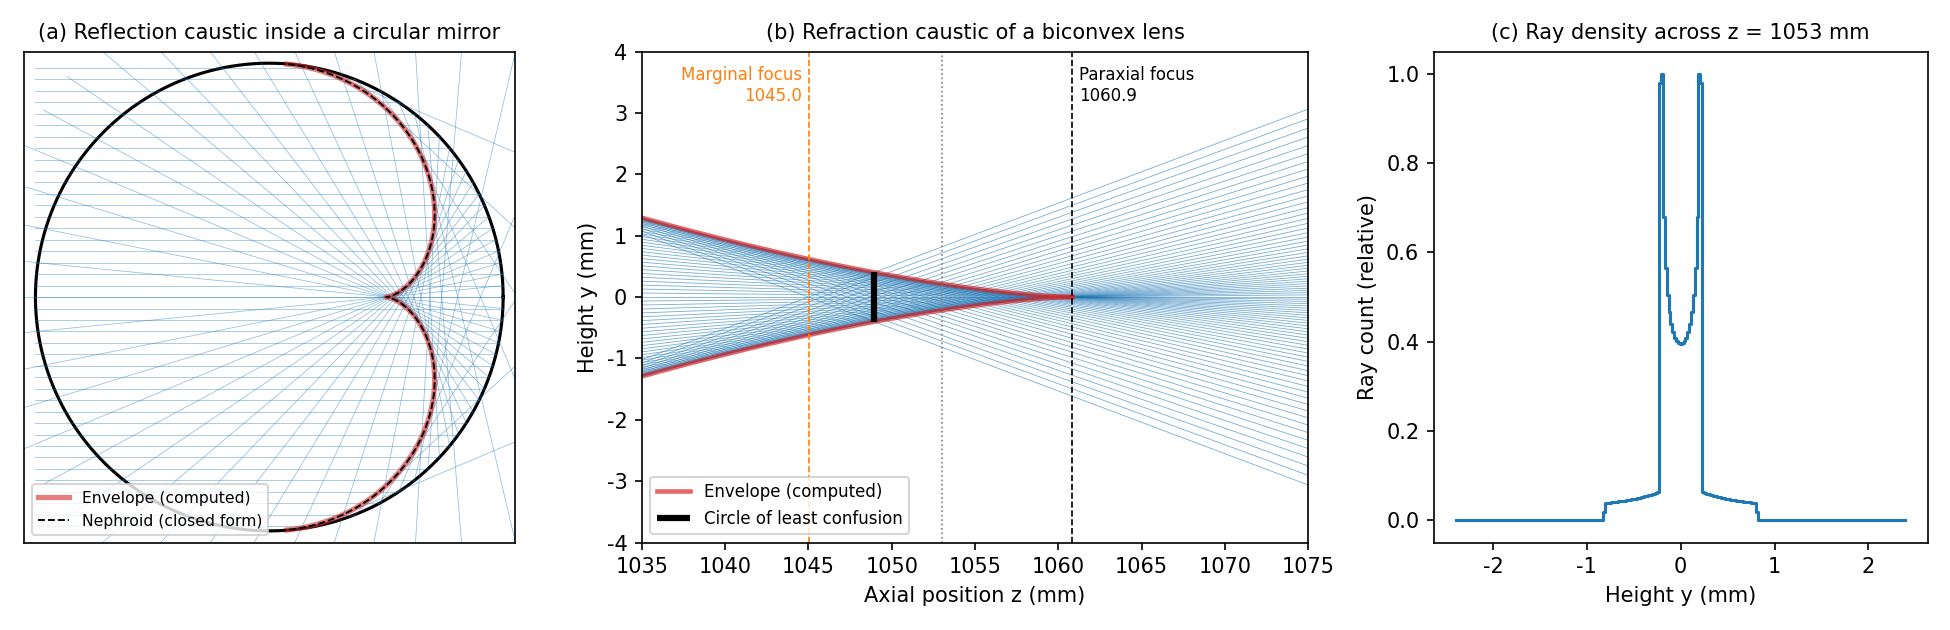
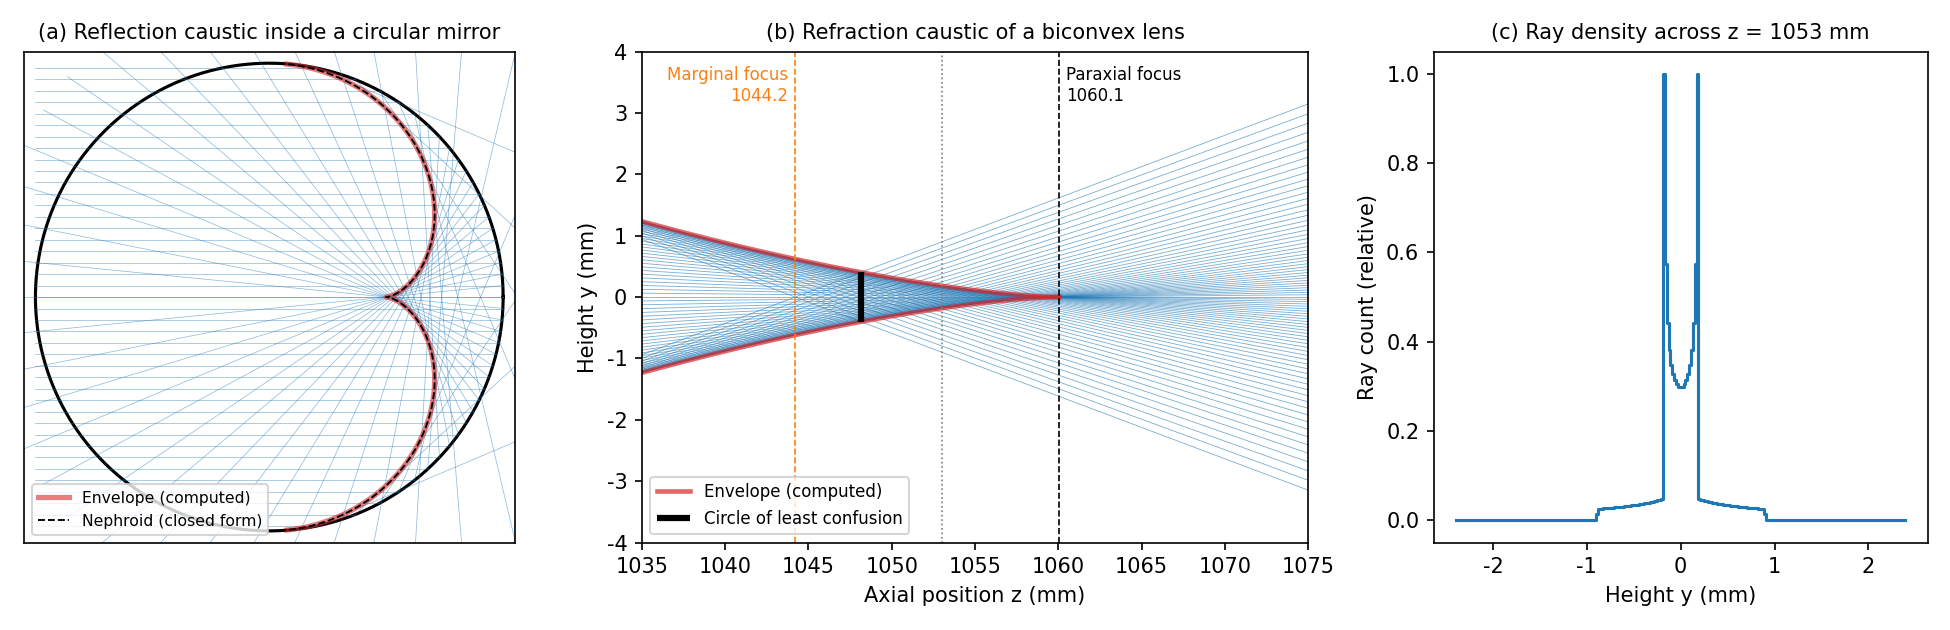
fix(post): geometric-optics-fermat-eikonal — 렌즈 모델의 공기 굴절률을 1로(카탈로그 규약)
N-BK7 굴절률(Sellmeier 1.511836)은 카탈로그 값, 곧 공기에 대한 상대 굴절률인데 공기를 1.0002778
(15 °C 건조 공기 약 552 nm 값)로 따로 두어 기준이 섞여 있었다. 사용자 결정에 따라 공기를 1로 두고 다시 계산했다.

- 근축 초점 1060.85 → 1060.05 mm, 가장자리 광선 1045.01 → 1044.21 mm
- 최소 착란원 위치 1048.95 → 1048.15 mm (지름 0.81 mm, 종구면수차 15.8 mm 그대로)
- 그림8 캡션·라벨 1045.0/1060.9 → 1044.2/1060.1, 그림8 한·영 재생성
- 렌즈를 처음 설명하는 자리에 "공기는 1로 둔다"는 근거 문장 추가(한·영)
- rays.py n_air 기본값 1.0, verify_rays 의 opticore 공기 1.0, Optiland 기록값을 공기 n=1 로 다시 구한 값으로 교체.
  verify 21 갈래 통과. 공기를 1로 두면 이 추적기·opticore·Optiland 가 서로 5e-4 이내로 맞는다.
- 신기루 계산(공기 n−1 ≈ 2.8e-4)은 렌즈 모델이 아니므로 그대로

diff --git a/_code/geometric-optics-fermat-eikonal/verify_rays.py b/_code/geometric-optics-fermat-eikonal/verify_rays.py
@@ -187,7 +187,7 @@ from opticore.surface import Surface
 from opticore.system import OpticalSystem
 g = SellmeierMaterial(B=(1.03961212, 0.231792344, 1.01046945),
                       C=(0.00600069867, 0.0200179144, 103.560653))
-a = ConstantMaterial(1.0002778)
+a = ConstantMaterial(1.0)  # 유리는 카탈로그(공기 기준 상대) 굴절률이므로 공기는 1
 s = OpticalSystem(ambient=a)
 s.add(Surface(Sphere(1000.0), g, Refractive(), position=(0, 0, 0)))
 s.add(Surface(Sphere(-1000.0), a, Refractive(), position=(0, 0, 100.0)))
@@ -218,8 +218,9 @@ def verify_singlet():
 
     heights = [1.0, 30.0, 60.0, 90.0, 100.0]
     mine = lens.axis_crossing(heights)
-    # Optiland 오라클 기록값 (repo_opticore/design_docs/PHASE0_OPTILAND_STUDY.md 절 B, Py=h/100)
-    optiland = {30.0: 1059.444, 60.0: 1055.200, 90.0: 1048.055, 100.0: 1045.011}
+    # Optiland 오라클 기록값: PHASE0_OPTILAND_STUDY.md 절 B 와 같은 처방(trace_generic, Py=h/100)을
+    # 공기 IdealMaterial(n=1.0) 으로 다시 돌린 값 (2026-10-10). 절 B 의 원 기록은 공기 1.0002778 처방이다
+    optiland = {30.0: 1058.646, 60.0: 1054.400, 90.0: 1047.254, 100.0: 1044.209}
     ok &= check("↔ Optiland 기록값 [mm] (기록이 소수 셋째 자리)",
                 [mine[heights.index(h)] for h in optiland], list(optiland.values()), 1e-2)
 

diff --git a/_code/geometric-optics-fermat-eikonal/rays.py b/_code/geometric-optics-fermat-eikonal/rays.py
@@ -187,7 +187,7 @@ class Singlet:
     r2: float = -1000.0
     thickness: float = 100.0
     wavelength_um: float = 0.750
-    n_air: float = 1.0002778
+    n_air: float = 1.0  # 유리는 카탈로그(공기 기준 상대) 굴절률이므로 공기는 1
 
     @property
     def n_glass(self):

diff --git a/_posts/2026-11-11-geometric-optics-fermat-eikonal-en.md b/_posts/2026-11-11-geometric-optics-fermat-eikonal-en.md
@@ -187,9 +187,9 @@ _Figure 7. A reflection caustic formed by the inner surface of a gold ring. Sunl
 Computing the same situation gives Figure 8(a). Parallel light reflects once off the inside of a circular mirror of radius $R$. The numerically computed envelope of the reflected rays agrees with the closed form of the nephroid, $x = \tfrac{R}{4}(3\cos t - \cos 3t)$, $y = \tfrac{R}{4}(3\sin t - \sin 3t)$, to about $10^{-5}R$. The cusp lies $R/2$ from the centre, at the paraxial focus of a spherical mirror. Notice too that the caustic floats in the space inside the ring rather than lying on the wall where the reflection happens. Berry makes the same point to argue that the caustics of a mirage generally do not coincide with the heights at which the rays turn back [5]. The boundary that separates the heights in a distant scene that appear in the mirage from those that do not, which Berry calls the "vanishing line", is set by the points whose caustic passes through the eye.
 
 <img src="/assets/img/posts/geometric-optics-fermat-eikonal/en/fig8-caustics.png" alt="Reflection caustic of a circular mirror, refraction caustic of a biconvex lens, and ray density across the caustic" width="780">
-_Figure 8. (a) Reflection caustic inside a circular mirror. The computed envelope (red) coincides with the closed-form nephroid (dashed). (b) Refraction caustic behind an N-BK7 biconvex lens (R = ±1000 mm, thickness 100 mm, diameter 200 mm, wavelength 750 nm). Marginal rays cross the axis at 1045.0 mm, near-axis rays at 1060.9 mm. The black bar marks the circle of least confusion, where the blur is smallest. (c) Rays counted across the plane z = 1053 mm. The count spikes where the caustic passes (±0.2 mm)._
+_Figure 8. (a) Reflection caustic inside a circular mirror. The computed envelope (red) coincides with the closed-form nephroid (dashed). (b) Refraction caustic behind an N-BK7 biconvex lens (R = ±1000 mm, thickness 100 mm, diameter 200 mm, wavelength 750 nm). Marginal rays cross the axis at 1044.2 mm, near-axis rays at 1060.1 mm. The black bar marks the circle of least confusion, where the blur is smallest. (c) Rays counted across the plane z = 1053 mm. The count spikes where the caustic passes (±0.2 mm)._
 
-A lens behaves the same way. Figure 8(b) sends parallel light into an N-BK7 biconvex lens 200 mm in diameter. Near-axis rays cross the axis at 1060.85 mm, which matches the thick-lens formula [4] to $10^{-11}$ mm. Marginal rays cross at 1045.01 mm, 15.8 mm earlier. This is spherical aberration. The focal shift grows roughly as the square of the ray height [4]; for this lens, the shift divided by the height squared stays constant to within 1.4% from 10 mm to 100 mm. The envelope of the rays forms the caustic, and its cusp sits at the paraxial focus [1]. At 1048.95 mm, where the marginal ray meets the opposite branch of the caustic, the cross-section of the bundle is smallest, 0.81 mm across [2]. The position of this circle of least confusion agrees with a direct minimization of the blur to within $10^{-5}$ mm.
+A lens behaves the same way. Figure 8(b) sends parallel light into an N-BK7 biconvex lens 200 mm in diameter. The glass index is the catalogue value, which is defined relative to air, so the air around the lens is given an index of exactly 1. Near-axis rays cross the axis at 1060.05 mm, which matches the thick-lens formula [4] to $10^{-11}$ mm. Marginal rays cross at 1044.21 mm, 15.8 mm earlier. This is spherical aberration. The focal shift grows roughly as the square of the ray height [4]; for this lens, the shift divided by the height squared stays constant to within 1.4% from 10 mm to 100 mm. The envelope of the rays forms the caustic, and its cusp sits at the paraxial focus [1]. At 1048.15 mm, where the marginal ray meets the opposite branch of the caustic, the cross-section of the bundle is smallest, 0.81 mm across [2]. The position of this circle of least confusion agrees with a direct minimization of the blur to within $10^{-5}$ mm.
 
 Figure 8(c) counts the heights at which rays cross the plane z = 1053 mm, between the two foci. The ray density spikes at ±0.2 mm, where the caustic passes. According to geometrical optics, the intensity there is infinite. Real light is not. Studying the rainbow in 1838, Airy showed that near a caustic the wave oscillates on one side and dies away exponentially on the other [6]; the function describing this is now called the Airy function. The intensity on the caustic is finite but grows as the wavenumber $k$ to the power 1/3, while the fringe spacing shrinks as $k^{-2/3}$ [6]. As the wavelength goes to zero, the intensity goes to infinity and the fringe spacing to zero, recovering the geometrical picture. A perfect focus, where a spherical wave collapses to a point, is more extreme still: there the intensity grows as $k^2$ [6]. As Hecht puts it, nature abhors infinities [2]. Geometrical optics fails exactly where it predicts the brightest light, and that is why the shape of a focus calls for wave optics.
 
@@ -201,7 +201,7 @@ Figure 8(c) counts the heights at which rays cross the plane z = 1053 mm, betwee
 - The precise form of Fermat's principle is that the optical path length is stationary, and its Euler–Lagrange equation is the ray equation. A ray is a minimum only until it passes a conjugate point. Stationarity is required because it is the condition for constructive interference with neighbouring paths.
 - Geometrical optics breaks down at shadow edges, foci and caustics. In wave terms, the intensity on a caustic is finite, scaling as the wavelength to the power −1/3, and it is decorated by Airy-function fringes.
 
-In a homogeneous medium a ray is a straight line. Everything interesting happens at interfaces, and lens design starts by linearizing Snell's law at those interfaces with $\sin\theta \approx \theta$. The next post covers paraxial optics and ray transfer (ABCD) matrices. We will see the paraxial focus of 1060.85 mm, found here by real-ray tracing, come straight out of a product of a few 2×2 matrices.
+In a homogeneous medium a ray is a straight line. Everything interesting happens at interfaces, and lens design starts by linearizing Snell's law at those interfaces with $\sin\theta \approx \theta$. The next post covers paraxial optics and ray transfer (ABCD) matrices. We will see the paraxial focus of 1060.05 mm, found here by real-ray tracing, come straight out of a product of a few 2×2 matrices.
 
 ## References
 
